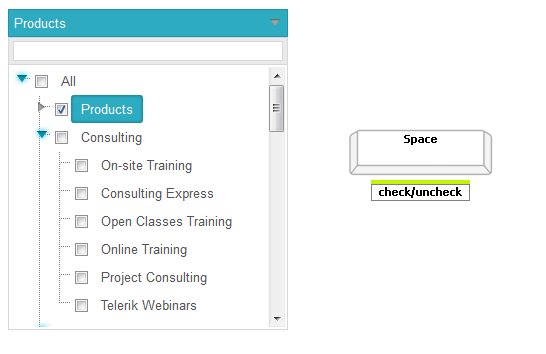
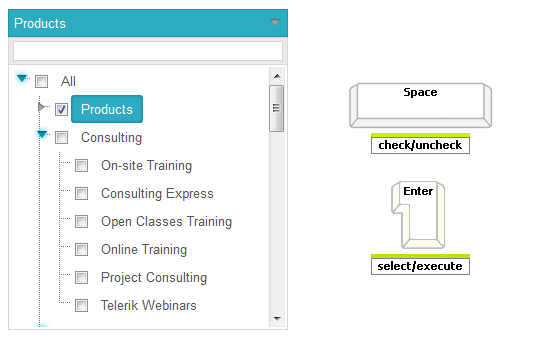
docs(dropdownTree): info on enter in keyboard nav

Changed region(s): [[0.6227, 0.2175, 0.9029, 0.7768], [0.7473, 0.2486, 0.8095, 0.2797], [0.6538, 0.2175, 0.685, 0.2486]]

diff --git a/controls/dropdowntree/accessibility-and-internationalization/keyboard-support.md b/controls/dropdowntree/accessibility-and-internationalization/keyboard-support.md
@@ -32,7 +32,7 @@ The following list explains the specific behaviors and keyboard shortcuts you ca
     
         ![dropdowntree-forwardnavigation](images/dropdowntree-gotodropdown.png)
         
-        >note Once focus is on the treeview, to reach the filter textbox again, press the **AccessKey** and then **Down Arrow** once more. Alternatively, close the dropdown through **Esc** and open it again through **Alt** + **Down Arrow**, and press **Down Arrow**.
+        >tip Once focus is on the treeview, to reach the filter textbox again, press the **AccessKey** and then **Down Arrow** once more. Alternatively, close the dropdown through **Esc** and open it again through **Alt** + **Down Arrow**, and press **Down Arrow**.
     
     1. After the focus is set to the tree, use the **Up Arrow** and **Down Arrow** to navigate up and down the tree and the **Right Arrow** and **Left Arrow** to expand and collapse the nodes. Using **Alt** + **+**/**-** also expands/collapses an item.
     
@@ -44,7 +44,9 @@ The following list explains the specific behaviors and keyboard shortcuts you ca
     
     1. To close the dropdown,  press the **Esc** key. This will focus the main element so you can move out of the dropdown and through the rest of the form via **Tab** or **Shift** + **Tab**. You can also return to the main element by using its **Access Key**.
 
-* **Action Key** -When the focus is set to a node, pressing the **Space** key checks the node.![dropdowntree-ckecknodes](images/dropdowntree-ckecknodes.png)
+* **Action Key** -When the focus is set to a node, pressing the **Space** key checks the node without closing the dropdown. Pressing **Enter** selects the node and closes the dropdown.
+
+    ![dropdowntree-ckecknodes](images/dropdowntree-ckecknodes.png)
 
 
 >caption  Key combinations supported by different browsers 
